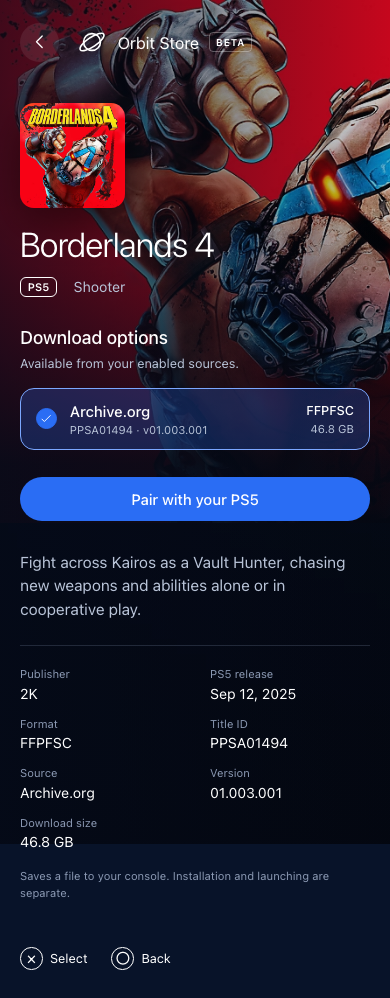
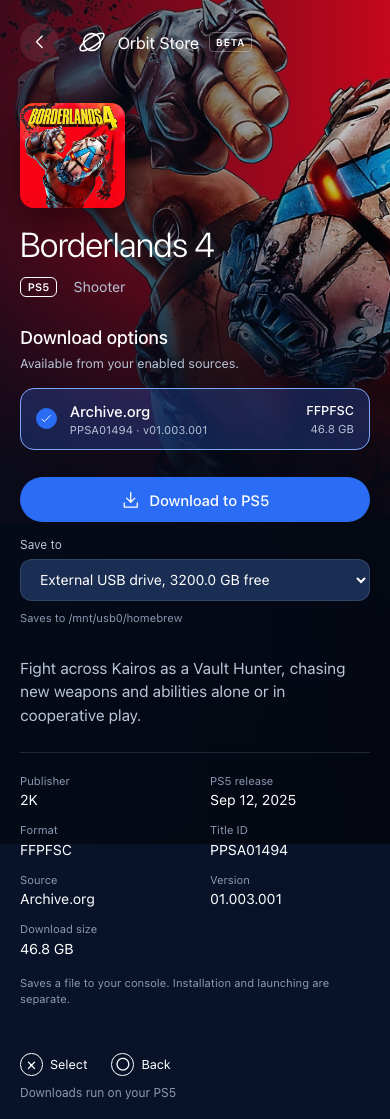
Show paired download controls in README screenshots

diff --git a/README.md b/README.md
@@ -8,6 +8,8 @@ Orbit brings a cinematic, controller-friendly storefront to PS5 homebrew. Browse
 
 ## Desktop
 
+These screenshots show a local preview of the paired interface with example USB storage. Game pages show **Download to PS5** after pairing.
+
 Discover shows **Latest releases** by verified game release date, then **All games**. Browse supports search and pages of 48 games; details keep each game’s source and format options together.
 
 ![Desktop Discover with Latest releases and All games](assets/0.2.0-beta.2/desktop-discover.png)
@@ -16,7 +18,7 @@ Discover shows **Latest releases** by verified game release date, then **All gam
 
 ## Phone
 
-The same storefront adapts to touch controls. These screenshots show the local app preview; game artwork continues to load from external URLs.
+The same paired interface adapts to touch controls. Game artwork continues to load from external URLs. **Pair devices** in the header connects another device; the game-page action is **Download to PS5**.
 
 <p>
   <img src="assets/0.2.0-beta.2/phone-discover.png" width="250" alt="Phone Discover with both game rows">
